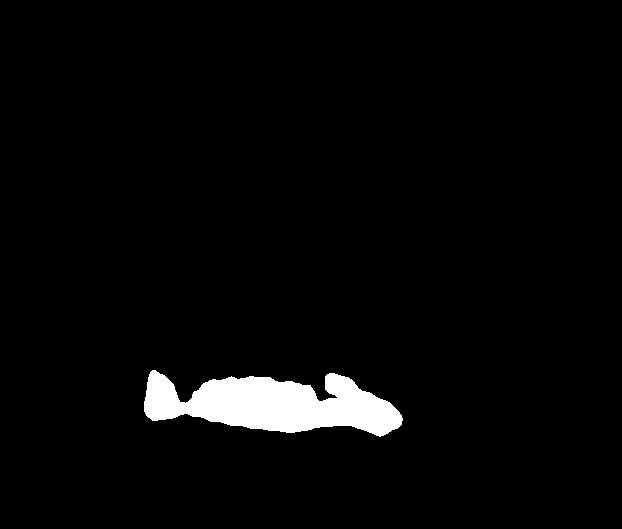
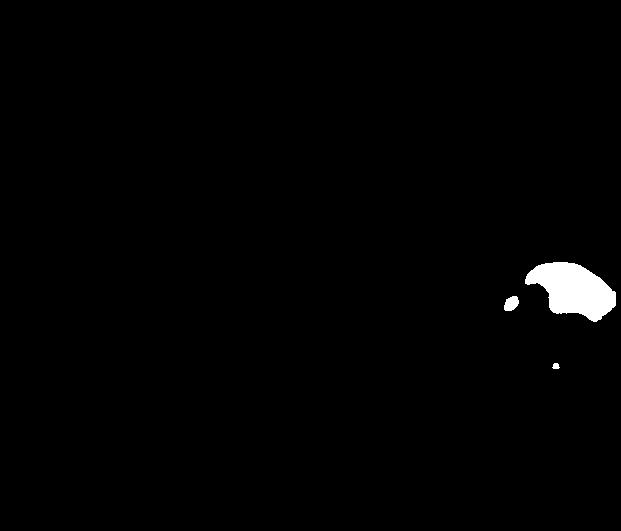
Commit fara fisierul mare

Changed region(s): [[0.2142, 0.6957, 0.6731, 0.8469], [0.7955, 0.4839, 1.0, 0.6049], [0.8873, 0.6654, 0.9179, 0.6957]]

diff --git a/Pytorch-UNet/train.py b/Pytorch-UNet/train.py
@@ -11,6 +11,7 @@ import torchvision.transforms.functional as TF
 from pathlib import Path
 from torch import optim
 from torch.utils.data import DataLoader, random_split
+from torch.optim.lr_scheduler import LinearLR, CosineAnnealingLR, SequentialLR
 from tqdm import tqdm
 
 import wandb
@@ -48,7 +49,7 @@ def train_model(
     train_set, val_set = random_split(dataset, [n_train, n_val], generator=torch.Generator().manual_seed(0))
 
     # 3. Create data loaders
-    loader_args = dict(batch_size=batch_size, num_workers=0, pin_memory=True)
+    loader_args = dict(batch_size=batch_size, num_workers=4, pin_memory=True, persistent_workers=True)
     train_loader = DataLoader(train_set, shuffle=True, **loader_args)
     val_loader = DataLoader(val_set, shuffle=False, drop_last=True, **loader_args)
 
@@ -72,10 +73,14 @@ def train_model(
     ''')
 
     # 4. Set up the optimizer, the loss, the learning rate scheduler and the loss scaling for AMP
-    optimizer = optim.RMSprop(model.parameters(),
-                              lr=learning_rate, weight_decay=weight_decay, momentum=momentum, foreach=True)
-    scheduler = optim.lr_scheduler.ReduceLROnPlateau(optimizer, 'max', patience=5)  # goal: maximize Dice score
-    grad_scaler = torch.cuda.amp.GradScaler(enabled=amp)
+    optimizer = optim.AdamW(model.parameters(), lr=learning_rate, weight_decay=weight_decay)
+
+    warmup_epochs = 5
+    scheduler_warmup = LinearLR(optimizer, start_factor=0.01, total_iters=warmup_epochs)  # goal: maximize Dice score
+    scheduler_cosine= CosineAnnealingLR(optimizer, T_max=epochs-warmup_epochs, eta_min=1e-6)
+    scheduler = SequentialLR(optimizer, schedulers=[scheduler_warmup, scheduler_cosine], milestones=[warmup_epochs])
+
+    grad_scaler = torch.amp.GradScaler('cuda',enabled=amp)
     criterion = nn.CrossEntropyLoss() if model.n_classes > 1 else nn.BCEWithLogitsLoss()
     global_step = 0
 
@@ -138,7 +143,6 @@ def train_model(
                                 histograms['Gradients/' + tag] = wandb.Histogram(value.grad.data.cpu())
 
                         val_score = evaluate(model, val_loader, device, amp)
-                        scheduler.step(val_score)
 
                         logging.info('Validation Dice score: {}'.format(val_score))
                         try:
@@ -156,6 +160,7 @@ def train_model(
                             })
                         except:
                             pass
+        scheduler.step()
 
         if save_checkpoint:
             Path(dir_checkpoint).mkdir(parents=True, exist_ok=True)

diff --git a/Pytorch-UNet/utils/data_loading.py b/Pytorch-UNet/utils/data_loading.py
@@ -11,6 +11,7 @@ from os.path import splitext, isfile, join
 from pathlib import Path
 from torch.utils.data import Dataset
 from tqdm import tqdm
+import random
 from . import preprocesare
 
 def load_image(filename):
@@ -66,11 +67,12 @@ class BasicDataset(Dataset):
         return len(self.ids)
 
     @staticmethod
-    def preprocess(mask_values, pil_img, scale, tip_preprocesare, is_mask):
+    def preprocess(mask_values, pil_img, scale, tip_preprocesare,unghi, is_mask):
         w, h = pil_img.size
         newW, newH = 256, 256;
         assert newW > 0 and newH > 0, 'Scale is too small, resized images would have no pixel'
         pil_img = pil_img.resize((newW, newH), resample=Image.NEAREST if is_mask else Image.BICUBIC)
+        pil_img=pil_img.rotate(unghi)
         img = np.asarray(pil_img)
 
         if is_mask:
@@ -85,6 +87,7 @@ class BasicDataset(Dataset):
             return mask
 
         else:
+            img=preprocesare.adaptive_inpaint(img)
             match tip_preprocesare:
                 case 1:
                     img=preprocesare.clahe(img)
@@ -114,8 +117,9 @@ class BasicDataset(Dataset):
         assert img.size == mask.size, \
             f'Image and mask {name} should be the same size, but are {img.size} and {mask.size}'
 
-        img = self.preprocess(self.mask_values, img, self.scale, self.tip_preprocesare, is_mask=False)
-        mask = self.preprocess(self.mask_values, mask, self.scale, self.tip_preprocesare, is_mask=True)
+        unghi=random.randint(0,3) * 90;
+        img = self.preprocess(self.mask_values, img, self.scale, self.tip_preprocesare, unghi, is_mask=False)
+        mask = self.preprocess(self.mask_values, mask, self.scale, self.tip_preprocesare, unghi, is_mask=True)
 
         return {
             'image': torch.as_tensor(img.copy()).float().contiguous(),

diff --git a/Pytorch-UNet/utils/preprocesare.py b/Pytorch-UNet/utils/preprocesare.py
@@ -1,32 +1,34 @@
 import cv2
 import os
 import numpy as np
+cv2.setNumThreads(0)
 
 def clahe(img):
-    ycrcb_img = cv2.cvtColor(img, cv2.COLOR_BGR2YCrCb)
+    ycrcb_img = cv2.cvtColor(img, cv2.COLOR_RGB2YCrCb)
     y, cr, cb = cv2.split(ycrcb_img)
     clahe = cv2.createCLAHE(clipLimit=2.0, tileGridSize=(8, 8))
     y_clahe = clahe.apply(y)
     img_clahe=cv2.merge((y_clahe,cr,cb))
-    img_fin=cv2.cvtColor(img_clahe, cv2.COLOR_YCrCb2BGR)
+    img_fin=cv2.cvtColor(img_clahe, cv2.COLOR_YCrCb2RGB)
     return img_fin
 
 def eqhist(img):
-    ycrcb_img = cv2.cvtColor(img, cv2.COLOR_BGR2YCrCb)
+    ycrcb_img = cv2.cvtColor(img, cv2.COLOR_RGB2YCrCb)
     y, cr, cb = cv2.split(ycrcb_img)
     y = cv2.equalizeHist(y)
     img_eq=cv2.merge((y,cr,cb))
-    equalized_img = cv2.cvtColor(img_eq, cv2.COLOR_YCrCb2BGR)
+    equalized_img = cv2.cvtColor(img_eq, cv2.COLOR_YCrCb2RGB)
     return equalized_img
 
 def adaptive_inpaint(img):
     blr = cv2.medianBlur(img, 15)
 
-    ycrcb_img = cv2.cvtColor(img, cv2.COLOR_BGR2YCrCb)
+    ycrcb_img = cv2.cvtColor(img, cv2.COLOR_RGB2YCrCb)
     y, cr, cb = cv2.split(ycrcb_img)
 
-    at = cv2.adaptiveThreshold(np.array(255 - y), 255, cv2.ADAPTIVE_THRESH_GAUSSIAN_C, cv2.THRESH_BINARY, 9, 17)
-    ia = np.array(255 - at)
+    y_inv = cv2.bitwise_not(y)
+    at = cv2.adaptiveThreshold(y_inv, 255, cv2.ADAPTIVE_THRESH_GAUSSIAN_C, cv2.THRESH_BINARY, 9, 17)
+    ia = cv2.bitwise_not(at)
     iv = cv2.adaptiveThreshold(ia, 255, cv2.ADAPTIVE_THRESH_GAUSSIAN_C, cv2.THRESH_BINARY, 5, 9)
     ib = cv2.subtract(iv, ia)
 

diff --git a/Pytorch-UNet/predict.py b/Pytorch-UNet/predict.py
@@ -21,7 +21,7 @@ def predict_img(net,
                 out_threshold=0.5,
                 tip_preprocesare=0):
     net.eval()
-    img = torch.from_numpy(BasicDataset.preprocess(None, full_img, scale_factor, tip_preprocesare, is_mask=False))
+    img = torch.from_numpy(BasicDataset.preprocess(None, full_img, scale_factor, tip_preprocesare, 0,is_mask=False))
     img = img.unsqueeze(0)
     img = img.to(device=device, dtype=torch.float32)
 
@@ -120,4 +120,4 @@ if __name__ == '__main__':
 
         if args.viz:
             logging.info(f'Visualizing results for image {filename}, close to continue...')
-            plot_img_and_mask(img, preprocesare.clahe(img_afisare) if tip_preprocesare==2 else preprocesare.eqhist(img_afisare) if tip_preprocesare==1 else img_afisare , mask)
+            plot_img_and_mask(img, preprocesare.clahe(preprocesare.adaptive_inpaint(img_afisare)) if tip_preprocesare==2 else preprocesare.eqhist(preprocesare.adaptive_inpaint(img_afisare)) if tip_preprocesare==1 else img_afisare , mask)
